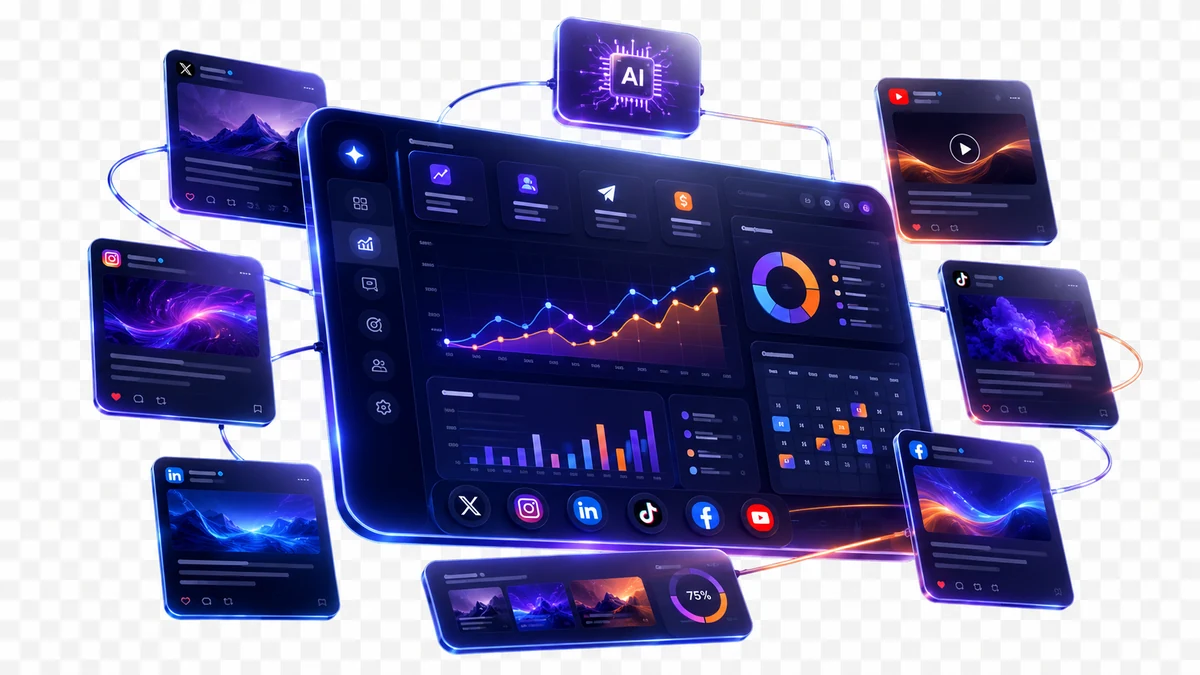
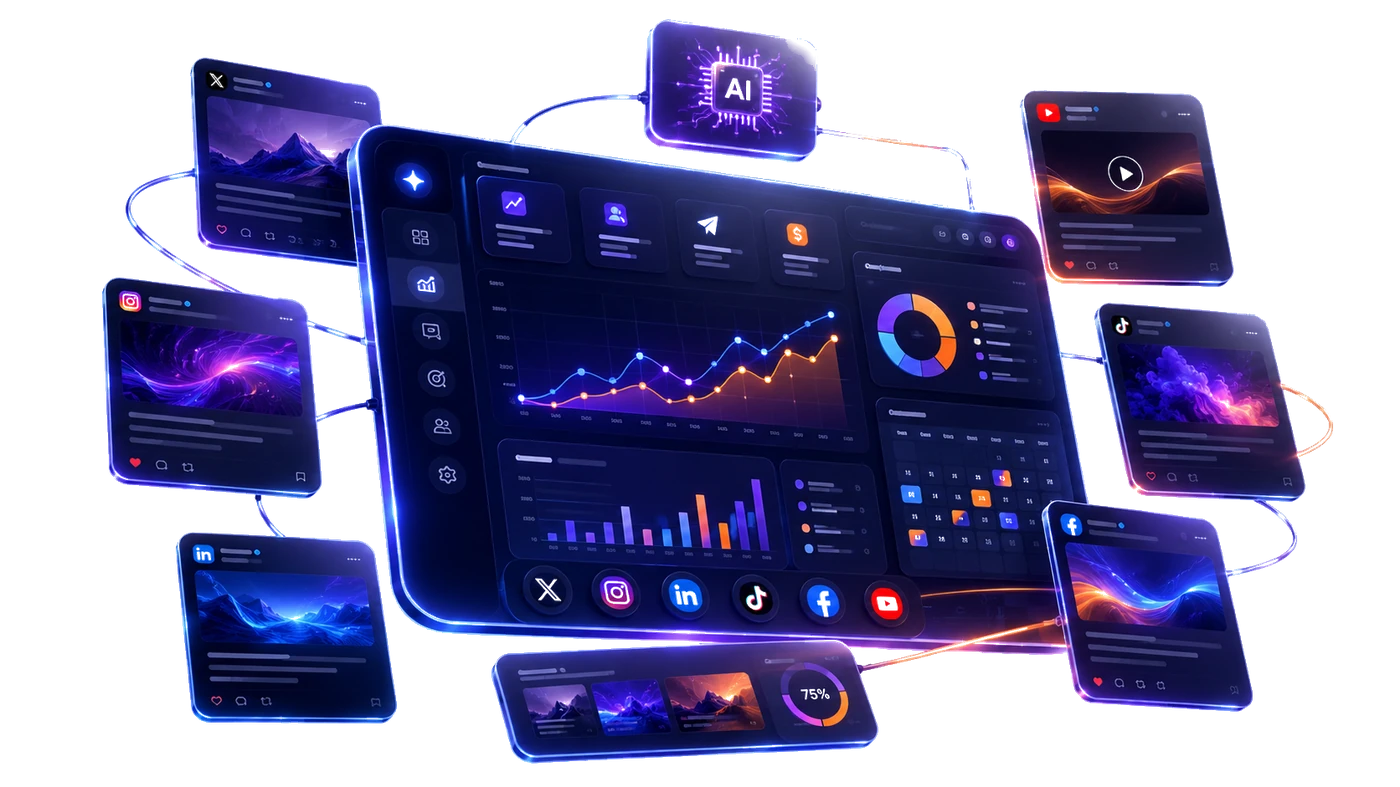
fix: hero visual — transparent WebP floating on dark bg, no container

diff --git a/src/app/page.tsx b/src/app/page.tsx
@@ -721,8 +721,8 @@ export default function HomePage() {
         <div className="absolute inset-0" style={{ background: 'radial-gradient(ellipse 80% 60% at 50% -10%, rgba(139,92,246,0.18) 0%, transparent 65%), radial-gradient(ellipse 40% 30% at 80% 80%, rgba(16,185,129,0.1) 0%, transparent 50%)' }} />
         <ParticleBackground />
 
-        <div className="relative z-10 max-w-[1280px] mx-auto px-4 sm:px-6 lg:px-8 w-full py-20 lg:py-28">
-          <div className="grid lg:grid-cols-2 gap-14 items-center">
+        <div className="relative z-10 max-w-[1400px] mx-auto px-4 sm:px-6 lg:px-8 w-full py-16 lg:py-24">
+          <div className="grid lg:grid-cols-[1fr_1.35fr] gap-10 items-center">
             {/* Text */}
             <div>
               <motion.div initial={{ opacity: 0, y: 16 }} animate={{ opacity: 1, y: 0 }} transition={{ delay: 0.15, duration: 0.55 }}
@@ -767,59 +767,67 @@ export default function HomePage() {
               </motion.p>
             </div>
 
-            {/* Hero visual — real product screenshot */}
-            <motion.div initial={{ opacity: 0, x: 30 }} animate={{ opacity: 1, x: 0 }} transition={{ delay: 0.9, duration: 0.8 }}
-              className="hidden lg:block">
-              {/* Outer glow ring */}
+            {/* Hero visual — cinematic floating asset */}
+            <motion.div initial={{ opacity: 0, scale: 0.94, x: 20 }} animate={{ opacity: 1, scale: 1, x: 0 }} transition={{ delay: 0.8, duration: 1, ease: [0.25, 0.46, 0.45, 0.94] }}
+              className="hidden lg:block" style={{ position: 'relative' }}>
+
+              {/* Violet radial glow — back layer */}
               <div style={{
-                position: 'relative',
-                borderRadius: '20px',
-                padding: '2px',
-                background: 'linear-gradient(135deg, rgba(139,92,246,0.5) 0%, rgba(16,185,129,0.2) 50%, rgba(139,92,246,0.3) 100%)',
-                boxShadow: '0 0 80px rgba(139,92,246,0.25), 0 32px 80px rgba(0,0,0,0.5)',
-              }}>
-                {/* Inner container */}
-                <div style={{
-                  borderRadius: '18px',
-                  overflow: 'hidden',
+                position: 'absolute',
+                top: '10%', left: '5%', right: '-5%', bottom: '-10%',
+                background: 'radial-gradient(ellipse 85% 70% at 55% 50%, rgba(139,92,246,0.28) 0%, rgba(60,16,185,0.12) 45%, transparent 75%)',
+                filter: 'blur(32px)',
+                zIndex: 0,
+                pointerEvents: 'none',
+              }} />
+
+              {/* Orange/amber floor glow */}
+              <div style={{
+                position: 'absolute',
+                bottom: '-15%', left: '10%', right: '10%', height: '40%',
+                background: 'radial-gradient(ellipse 70% 60% at 50% 100%, rgba(255,107,53,0.14) 0%, transparent 70%)',
+                filter: 'blur(24px)',
+                zIndex: 0,
+                pointerEvents: 'none',
+              }} />
+
+              {/* The image — no container, no card, transparent WebP floats on dark bg */}
+              <Image
+                src="/hero-dashboard.webp"
+                alt="NEXUS AI Dashboard"
+                width={1400}
+                height={787}
+                priority
+                style={{
+                  display: 'block',
+                  width: '110%',
+                  height: 'auto',
                   position: 'relative',
-                  background: '#f8f9fc',
-                }}>
-                  <Image
-                    src="/hero-dashboard.webp"
-                    alt="NEXUS AI Dashboard"
-                    width={1200}
-                    height={675}
-                    priority
-                    style={{ display: 'block', width: '100%', height: 'auto' }}
-                  />
-                  {/* Bottom fade — blends screenshot into the dark page */}
-                  <div style={{
-                    position: 'absolute',
-                    inset: 0,
-                    background: 'linear-gradient(to bottom, transparent 55%, rgba(5,5,16,0.85) 100%)',
-                    pointerEvents: 'none',
-                  }} />
-                  {/* Live badge */}
-                  <div style={{
-                    position: 'absolute',
-                    top: '14px',
-                    right: '14px',
-                    display: 'flex',
-                    alignItems: 'center',
-                    gap: '6px',
-                    background: 'rgba(5,5,16,0.75)',
-                    backdropFilter: 'blur(8px)',
-                    border: '1px solid rgba(16,185,129,0.3)',
-                    borderRadius: '20px',
-                    padding: '4px 10px',
-                  }}>
-                    <span style={{ width: '6px', height: '6px', borderRadius: '50%', background: '#10B981', animation: 'pulse 2s infinite' }} />
-                    <span style={{ fontFamily: 'monospace', fontSize: '10px', color: '#10B981', fontWeight: 600, letterSpacing: '1px', textTransform: 'uppercase' }}>
-                      {ar ? 'مباشر' : 'Live'}
-                    </span>
-                  </div>
-                </div>
+                  zIndex: 1,
+                  marginLeft: '-5%',
+                  filter: 'drop-shadow(0 8px 40px rgba(139,92,246,0.35)) drop-shadow(0 24px 80px rgba(0,0,0,0.55))',
+                }}
+              />
+
+              {/* Live status pill — floats above image */}
+              <div style={{
+                position: 'absolute',
+                top: '8%',
+                right: '2%',
+                display: 'flex',
+                alignItems: 'center',
+                gap: '6px',
+                background: 'rgba(4,4,20,0.82)',
+                backdropFilter: 'blur(12px)',
+                border: '1px solid rgba(16,185,129,0.4)',
+                borderRadius: '20px',
+                padding: '5px 12px',
+                zIndex: 3,
+              }}>
+                <span style={{ width: '7px', height: '7px', borderRadius: '50%', background: '#10B981', boxShadow: '0 0 8px #10B981' }} />
+                <span style={{ fontFamily: 'monospace', fontSize: '10px', color: '#10B981', fontWeight: 700, letterSpacing: '1.5px', textTransform: 'uppercase' }}>
+                  {ar ? 'مباشر' : 'Live'}
+                </span>
               </div>
             </motion.div>
           </div>
